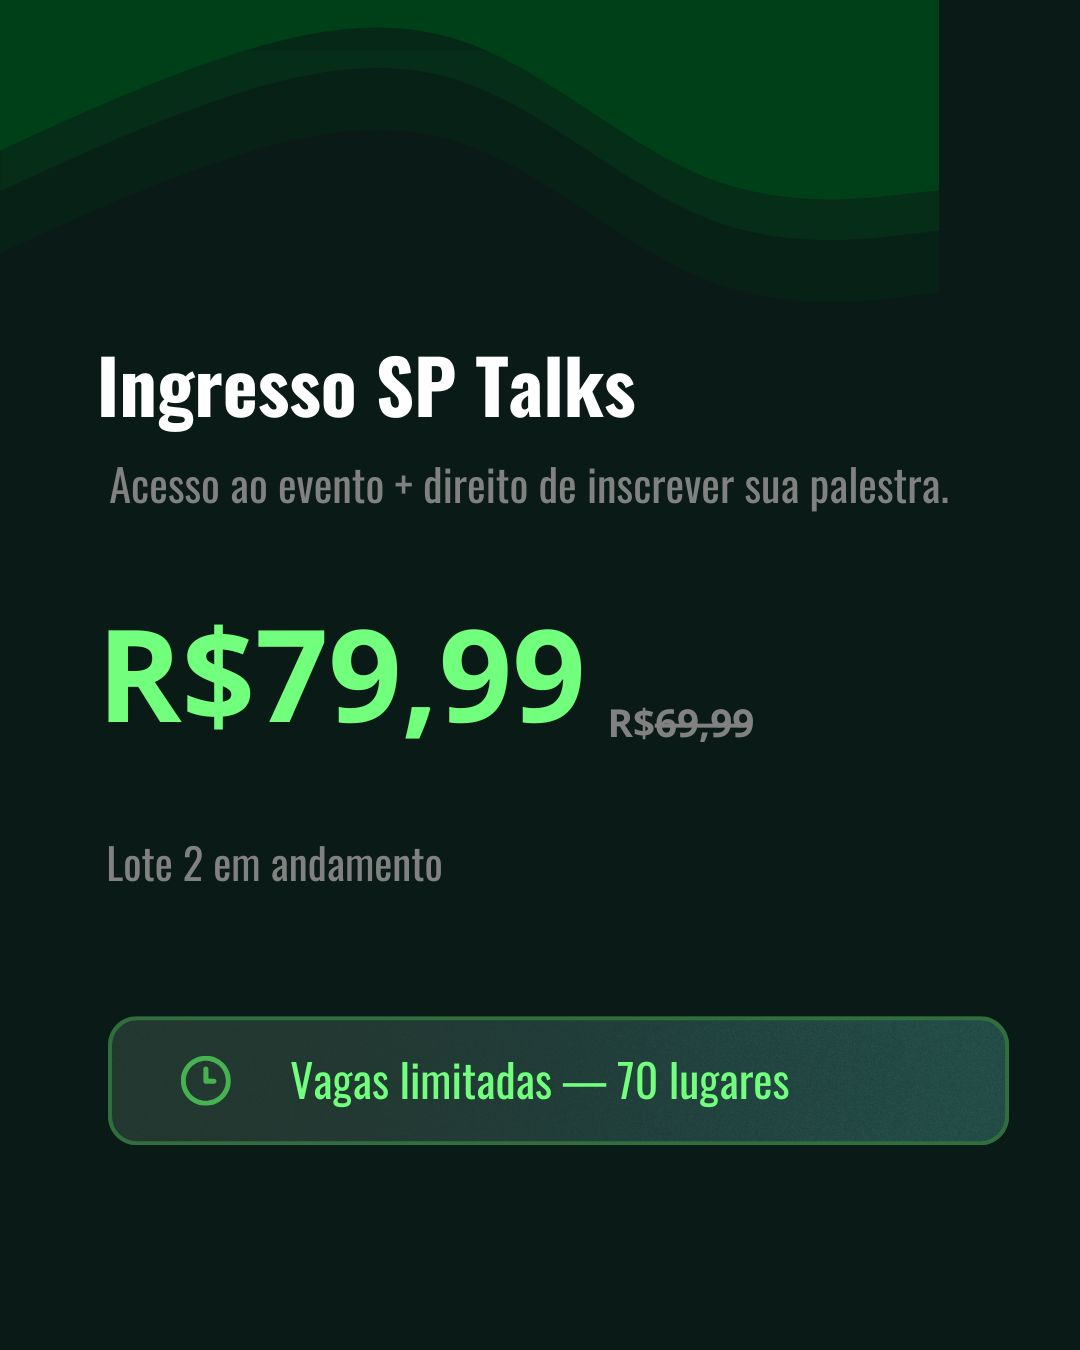
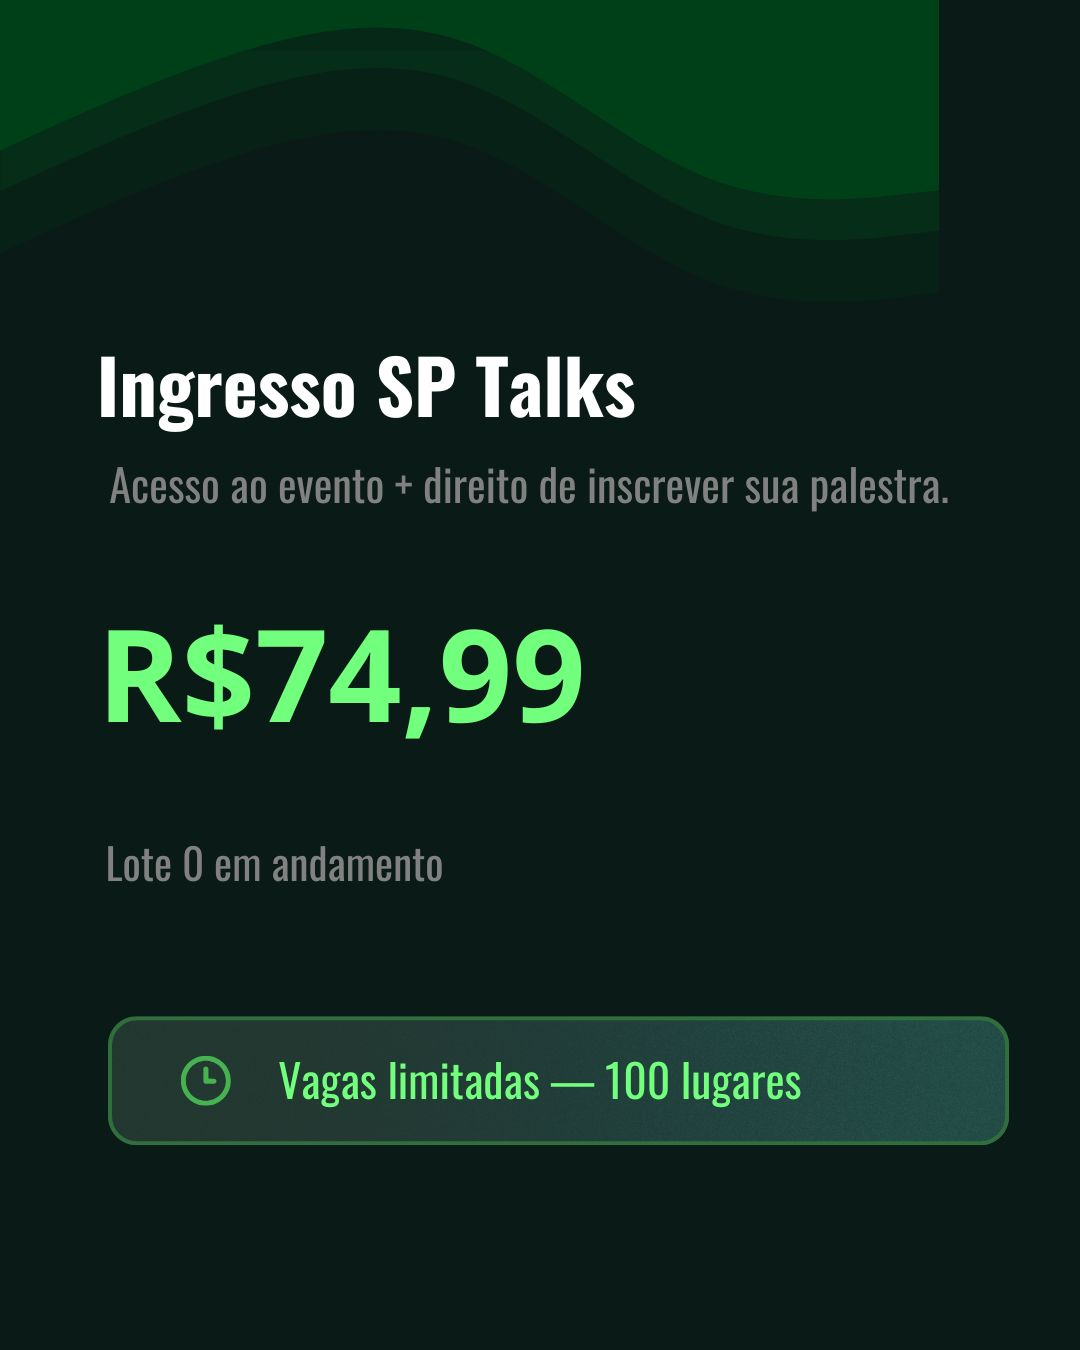
Novas datas

diff --git a/index.html b/index.html
@@ -87,7 +87,7 @@
                                 <i class="bi bi-calendar2-week"></i>
                                 <span>DATA</span>
                             </div>
-                            <strong>22 Ago 2026</strong>
+                            <strong>28 Nov 2026</strong>
                         </div>
 
                         <div class="info-item">
@@ -103,7 +103,7 @@
                                 <i class="bi bi-people"></i>
                                 <span>VAGAS</span>
                             </div>
-                            <strong>Apenas 70</strong>
+                            <strong>Apenas 100</strong>
                         </div>
                     </div>
                 </div>
